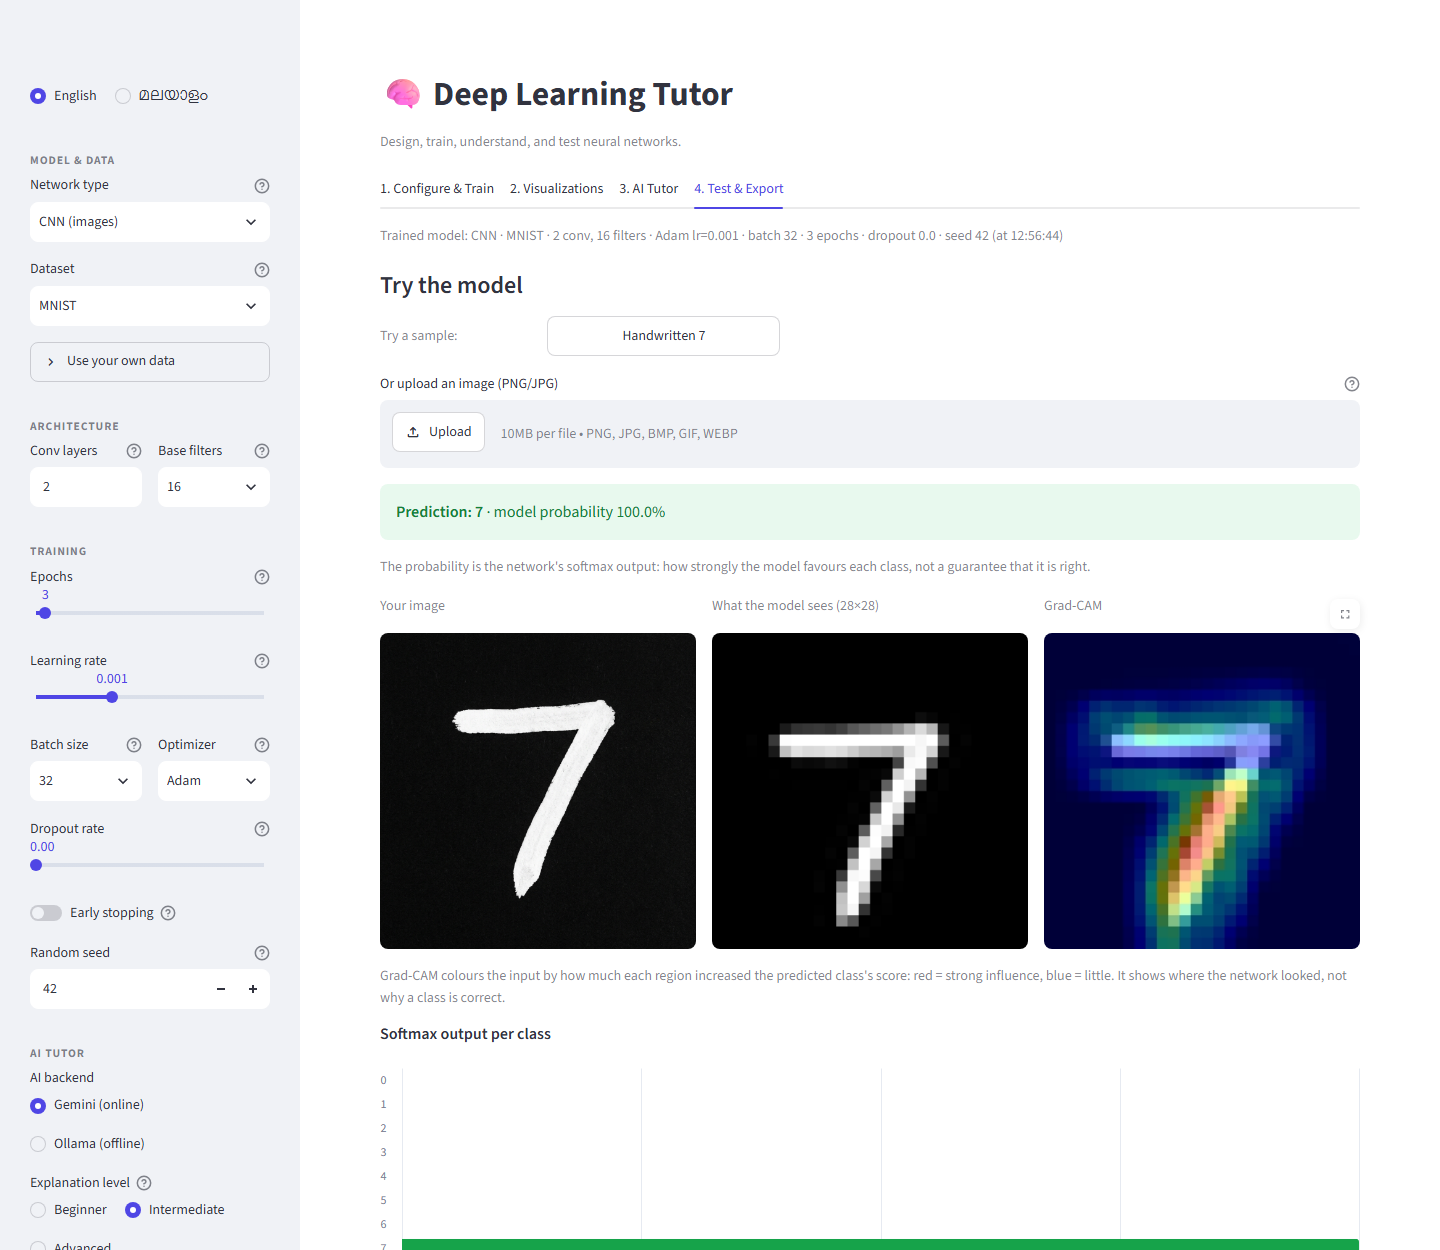
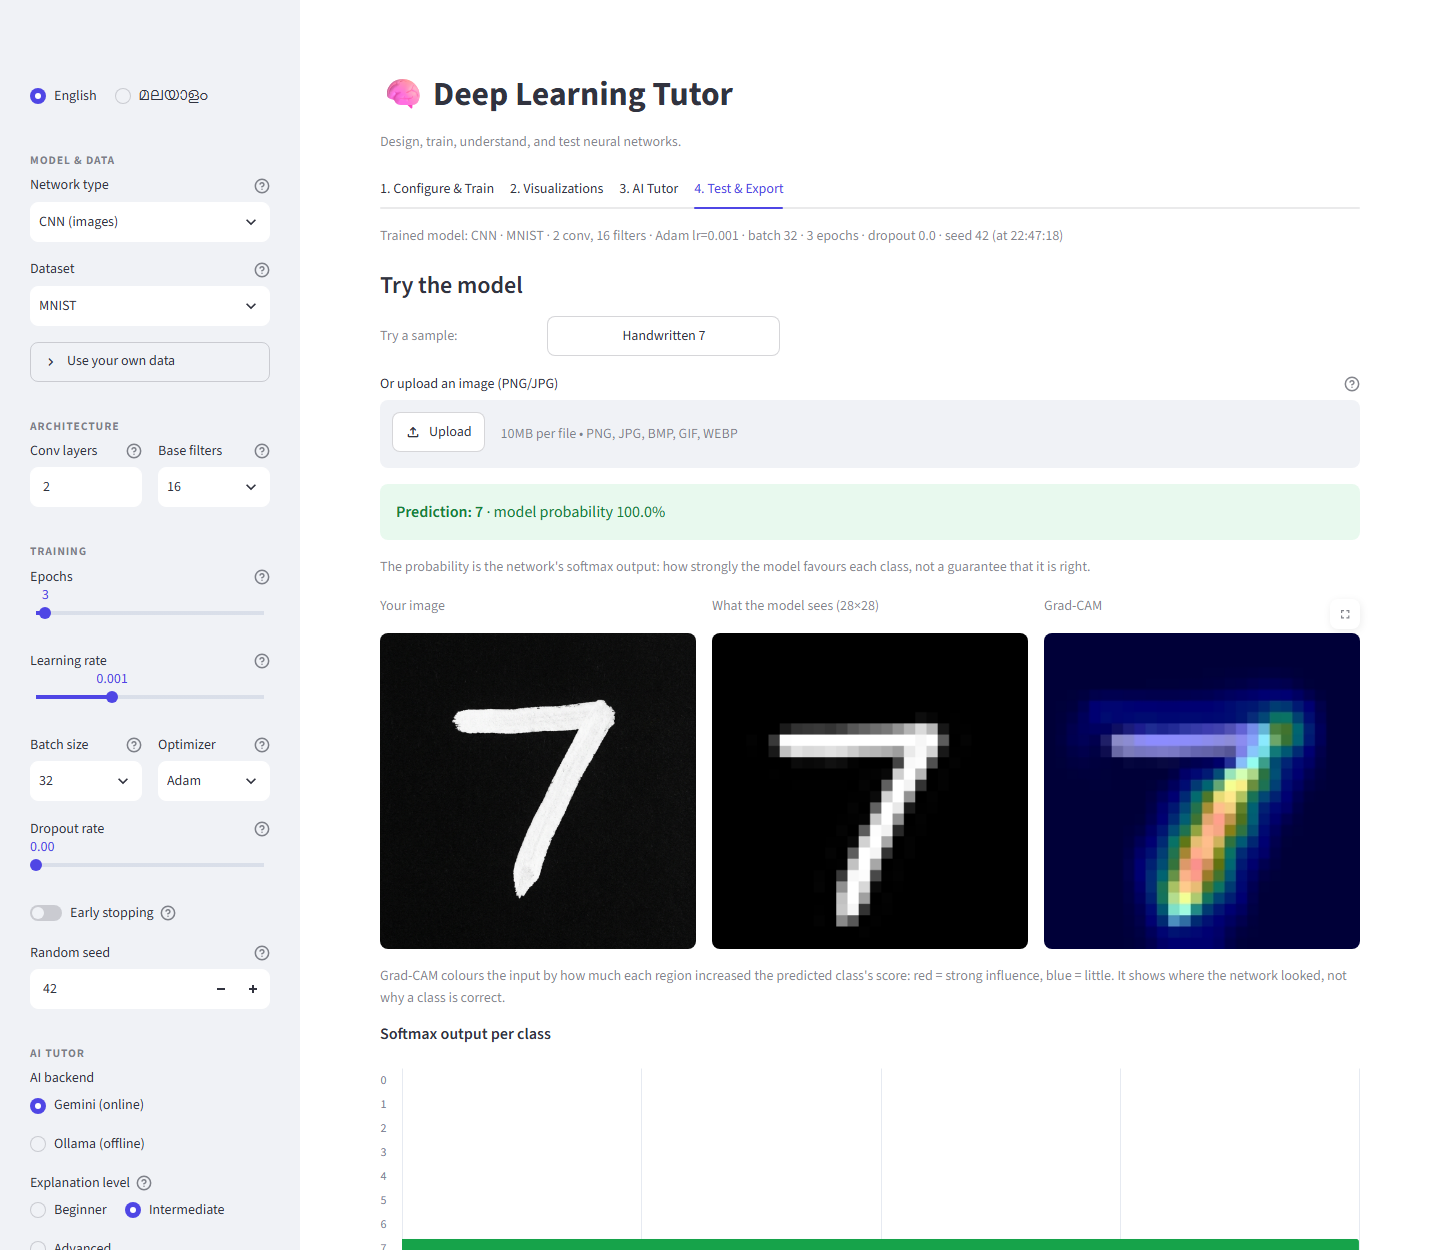
Final proof: second-pass measurements in the docs and README, two screenshots refreshed (item 7.1)

Changed region(s): [[0.7188, 0.5304, 0.9375, 0.78]]

diff --git a/README.md b/README.md
@@ -126,6 +126,9 @@ answer in English only, and agent mode needs Gemini.
   scaler and the one-hot encoder are fitted on the training rows only. When a dataset is too
   small for every class to appear in all three parts, the app falls back to 80 % training /
   20 % validation and says clearly that its number is a validation accuracy.
+- **Faster long epochs.** Image models run 32 batches per TensorFlow call (MNIST, 3 epochs:
+  30.4 s → 24.8 s in an interleaved comparison); tables keep one batch per call so the live
+  chart moves after every batch.
 - **Honest numbers.** Metrics are computed on the weights the model actually ends up with
   (early stopping restores the best epoch). The size of the test set is shown beside the
   accuracy, and small test sets get a note on how much one wrong prediction moves it.
@@ -141,7 +144,9 @@ answer in English only, and agent mode needs Gemini.
 
 ### Ask
 - **AI tutor chat** at three levels (beginner, intermediate, advanced). Code in answers is
-  shown as code blocks. You can attach images, PDFs and text files.
+  shown as code blocks. You can attach images, PDFs and text files. English answers from
+  Gemini are streamed: the first words appear while the rest is still being written (the
+  total time is the same). A question whose reply failed is marked as unanswered.
 - **Agent mode (Gemini function calling).** The tutor can call five tools and shows each
   call live: `run_experiment` (trains real models), `diagnose_training`,
   `compare_experiments`, `generate_code`, `explain_concept`. Every argument is validated.
@@ -149,6 +154,11 @@ answer in English only, and agent mode needs Gemini.
   passages (cosine similarity on embeddings, BM25 keyword search as the fallback).
 - **Document check (optional).** A second LLM call estimates how much of an answer the
   retrieved passages support. Treat it as a signal, not a proof.
+- **API usage panel.** The sidebar shows what this session's Gemini requests have cost:
+  requests, failed attempts, retries, cache hits, tokens and seconds.
+- **Careful with the API.** Identical reviews, fact-checks and embeddings are answered from
+  an in-memory cache; keys rotate on rate limits; retries back off with jitter; every
+  request has a time limit (120 s, 30 s for embeddings).
 
 ### Test & export
 - **Predictions.** Upload an image or try the bundled samples; for tables, fill in feature
@@ -168,14 +178,20 @@ then open **Advanced: remote training (MCP)** in the sidebar.
 
 ## Measured results
 
-Measured on 2026-11-12 with `python benchmarks/verify_models.py` on a laptop CPU
-(Intel Core Ultra 5 125H, no GPU), seed 42, Python 3.13.0, TensorFlow 2.20.0.
+Measured on 2026-11-12, at the end of the second pass, with
+`python benchmarks/verify_models.py` on a laptop CPU (Intel Core Ultra 5 125H, no GPU),
+seed 42, Python 3.13.0, TensorFlow 2.20.0.
 
 | Configuration | Validation accuracy | Test accuracy | Training time |
 |---|---:|---:|---:|
-| Iris, 2 × 16 dense, Adam lr 0.01, batch 16, 50 epochs (the defaults) | 100.0 % (22 rows) | **90.9 %** (22 rows) | 1.6 s |
-| MNIST, CNN 2 conv × 16 filters, Adam lr 0.001, batch 32, 3 epochs | 98.6 % (6,000) | **98.8 %** (10,000) | 39.6 s |
-| Fashion-MNIST, same CNN, 3 epochs | 91.1 % (6,000) | **89.6 %** (10,000) | 35.7 s |
+| Iris, 2 × 16 dense, Adam lr 0.01, batch 16, 50 epochs (the defaults) | 100.0 % (22 rows) | **90.9 %** (22 rows) | 1.5 s |
+| MNIST, CNN 2 conv × 16 filters, Adam lr 0.001, batch 32, 3 epochs | 98.4 % (6,000) | **98.7 %** (10,000) | 12.9 s |
+| Fashion-MNIST, same CNN, 3 epochs | 91.2 % (6,000) | **89.8 %** (10,000) | 13.2 s |
+
+The CNN times are single runs at the start of a fresh process, which is when this laptop is
+fastest; the same training took 22 – 31 s in longer sessions, and 39.6 s and 35.7 s when this
+table was first measured earlier the same day. Read them as "tens of seconds", and see
+[docs/PERFORMANCE.md](docs/PERFORMANCE.md) §7 for the controlled comparison.
 
 How to read this table:
 
@@ -189,15 +205,28 @@ How to read this table:
 Other checks from the same run:
 
 - The bundled `handwritten_seven.png` is predicted as 7; its Grad-CAM heat lies on the
-  stroke 3.1× more than chance.
+  stroke 3.8× more than chance.
 - Grad-CAM on 300 correctly classified MNIST validation digits: the heat lies on the digit's
-  pixels a median 2.3× more than chance; 4 of the 300 maps were empty.
+  pixels a median 2.7× more than chance; none of the 300 maps was empty.
 - `fashion_ankle_boot.png` is predicted as Ankle boot. `fashion_sneaker.png` is a line
-  drawing, unlike the photos the model was trained on, and is predicted as **Bag**.
+  drawing, unlike the photos the model was trained on; in this run it is predicted as
+  Sneaker with 63 % confidence (the run earlier the same day, before the batches were
+  grouped differently, said **Bag**), so that prediction is not stable.
 
-Speed of the user interface (for example 184 ms to react to a sidebar switch with a trained
-model) was measured earlier, on 2026-09-30 and 2026-10-01, and is documented in
-[docs/PERFORMANCE.md](docs/PERFORMANCE.md). Those numbers were not re-measured for this release.
+Second pass, same day (details and method in [docs/PERFORMANCE.md](docs/PERFORMANCE.md) §7):
+
+| What | Before | After |
+|---|---:|---:|
+| Memory for the vectors of 500 knowledge-base passages | 62.4 MB | 1.8 MB |
+| MNIST, 3 epochs, interleaved comparison in one process | 30.4 s | 24.8 s |
+| Wait before the first words of a tutor answer (3 real calls) | 5.6 – 13.2 s | 2.0 – 6.7 s (total time unchanged) |
+| First document upload (text splitting) | 534 ms | 141 ms |
+| Packages installed by `pip install -r requirements.txt` | 109 | 94 |
+
+Speed of the user interface in a real browser (for example 184 ms to react to a sidebar
+switch with a trained model) was measured earlier, on 2026-09-30 and 2026-10-01, and is
+documented in [docs/PERFORMANCE.md](docs/PERFORMANCE.md) §1. Those browser numbers were not
+re-measured; the in-process timings were, and did not change (§7).
 
 ---
 
@@ -215,8 +244,8 @@ app.py                     Streamlit UI: sidebar + four lazy tabs (only the open
 │   ├── image_preprocessing.py   one preprocessing for training ZIPs and test uploads
 │   ├── gradcam.py         Grad-CAM that works under Keras 3
 │   ├── codegen.py         "equivalent Python code" generator
-│   └── rag.py             PDF/TXT extraction, chunking, cosine + BM25 retrieval
-├── backend/               Gemini (key rotation, retry, cache), agent loop, Ollama
+│   └── rag.py             PDF/TXT extraction, our own text splitter, cosine + BM25 retrieval
+├── backend/               Gemini (key rotation, retry, cache, time limit, streaming), usage meter, agent loop, Ollama
 ├── components/            live training callback, Altair charts, chat parsing and rendering
 ├── config/                translations (English + Malayalam), prompts, session-state defaults
 ├── agent_tools.py         the five tools the Gemini agent can call
@@ -224,6 +253,7 @@ app.py                     Streamlit UI: sidebar + four lazy tabs (only the open
 ├── mcp_server.py / mcp_client.py   optional remote training
 ├── benchmarks/            accuracy and speed scripts
 ├── scripts/demo_walk.py   browser walk through the app, makes the screenshots
+├── memory/roadmap.md      engineering log of the second pass: every item, commit and measurement
 └── tests/                 pytest suite
 ```
 
@@ -236,7 +266,7 @@ preprocessing, the seeding and the evaluation are the same code everywhere.
 
 ```bash
 python -m pip install -r requirements-dev.txt
-python -m pytest                 # 450 tests, 2–4 minutes on a laptop CPU
+python -m pytest                 # 478 tests, 2–4 minutes on a laptop CPU
 python -m pytest -m "not slow"   # quick subset (no model training)
 python -m pyflakes .
 ```
@@ -248,9 +278,10 @@ python -m pyflakes .
   the encoder are fitted on training rows only; the test split is evaluated exactly once
   and only after training; the per-class numbers match scikit-learn.
 - **Also covered:** malicious ZIPs, CSV analysis, reproducibility, Grad-CAM, image
-  preprocessing, chat parsing, LLM retry and key rotation, RAG, the agent loop and tools,
-  the remote-training server, the exported code, translations, and end-to-end runs of
-  every tab.
+  preprocessing, chat parsing, LLM retry, key rotation, time limits and streaming, the usage
+  meter, RAG and the text splitter, the agent loop and tools, the remote-training server,
+  the exported code (its rows are compared with the app's), translations, and end-to-end
+  runs of every tab.
 
 Reproduce the measurements:
 
@@ -271,9 +302,22 @@ python benchmarks/run_benchmarks.py --out results.json   # start-up, rerun and c
 - **Small test sets are noisy.** Iris has 22 test rows; one flower is 4.5 points. There is
   one split per seed and no cross-validation.
 - **Deliberately small models.** They train in seconds on a CPU; they are for teaching, not
-  for state-of-the-art accuracy. A CNN epoch on MNIST took about 13 s on the test laptop.
-- **Out-of-distribution images are guessed badly.** The bundled sneaker drawing is
-  predicted as a bag.
+  for state-of-the-art accuracy. A CNN epoch on MNIST took between 4 and 13 s on the test
+  laptop, depending on how warm it was.
+- **Out-of-distribution images are guessed badly.** The bundled sneaker drawing was
+  predicted as a bag in one run and as a sneaker (63 %) in the next.
+- **Small-sample checks.** The 768-number embeddings were compared with the full ones on one
+  short document (15 passages, 20 questions). The request time limit was tested with fakes,
+  not against a real hung connection.
+- **Known small defects, reproduced but not fixed** (listed in
+  [memory/roadmap.md](memory/roadmap.md), section F): a ZIP that stores the same file name
+  several times loads that image several times; a document cut off by the knowledge-base
+  size limit is remembered as already learned; two error-handling corner cases in the
+  Gemini layer.
+- **Streaming is for English Gemini answers only.** Agent mode, Malayalam answers (one JSON
+  object) and Ollama answers appear when complete.
+- **The exported script** makes the same split as the app but trains with plain
+  `model.fit`, so its weights are not bit-identical to the app's.
 - **The document check is an estimate.** An LLM judging another LLM can be wrong.
 - **gTTS needs internet access. Ollama models answer in English only.**
 - **One user per server.** Training runs inside the user's session; there are no accounts.
@@ -301,7 +345,11 @@ help of an AI coding assistant: the audit found, among other things, a data leak
 was fitted before the split) and a Grad-CAM that did not work under Keras 3; the refactor
 moved the logic out of the user interface into tested modules. In the private working
 repository that work is dated 2026-09-30 and 2026-10-01. The held-out test set and the
-per-class table were added for this release.
+per-class table were added for this release. A second pass on 2026-11-12 carried the test
+set through the exported script, the AI review, the tutor, the agent and the remote-training
+log, added the API usage meter, request time limits and streaming, fixed three bugs found
+by a time-boxed bug hunt, and made the measured optimisations listed above. Its engineering
+log is [memory/roadmap.md](memory/roadmap.md).
 
 The public history starts at this release, because the earlier working repository also
 held unrelated report material that cannot be published.

diff --git a/memory/roadmap.md b/memory/roadmap.md
@@ -119,9 +119,9 @@ test or a probe script showed the behaviour; only three are fixed, as the item a
 | 5.1 | SHOULD | M | CNN speed: explain the gap, try cheap levers | CI VERIFIED | 9e7fdb8 | green |
 | 3.4 | OPTIONAL | M | Prompt structure: system_instruction, stable-first order | REVERTED | 1659a77 | green |
 | 3.5 | OPTIONAL | M | Streaming for the plain English tutor answer | CI VERIFIED | 191899a | green |
-| 6.1 | OPTIONAL | S | Dependency check (langchain-text-splitters) | DONE | 6e7a73c | running when checked |
-| 6.2 | OPTIONAL | S | Cleanup audit of unreferenced files and dead functions | DONE | see git log | pending |
-| 7.1 | MUST | M | Final proof: tests, benchmarks, docs, README, clone check | NOT STARTED | | |
+| 6.1 | OPTIONAL | S | Dependency check (langchain-text-splitters) | CI VERIFIED | 6e7a73c | green |
+| 6.2 | OPTIONAL | S | Cleanup audit of unreferenced files and dead functions | CI VERIFIED | d7ce525 | green |
+| 7.1 | MUST | M | Final proof: tests, benchmarks, docs, README, clone check | DONE | see git log | pending |
 | 7.2 | MUST | S | Private guide and run summary (outside the repo) | NOT STARTED | | |
 
 Item details (short form of the brief; the acceptance rules are binding):
@@ -355,6 +355,42 @@ Item details (short form of the brief; the acceptance rules are binding):
   (benchmark group "startup": server healthy after 1.35 s, first page after 5.37 s).
   Outside the repo: the run folder was 547 MB (pip cache 524 MB, old clone check 7 MB, temp
   10 MB); those three were deleted, leaving 7 MB of logs, scripts and result files.
+- 7.1 (final proof), 2026-11-12, mains power.
+  run_benchmarks.py at the start of the pass (8025149) against the end (d7ce525 + docs):
+
+  | What | Start | End |
+  |------|-------|-----|
+  | Cold first run | 5,347 ms | 5,264 ms |
+  | of which import tensorflow | 4,361 ms | 4,176 ms |
+  | No-op rerun, nothing trained | 23.8 ms | 26.7 ms |
+  | No-op rerun, Iris model trained | 29.8 ms | 28.7 ms |
+  | Train click on Iris, 50 epochs | 3,139 ms | 2,984 ms |
+  | Chat message round trip, fake LLM | 31.3 ms | 32.1 ms |
+  | RAG keyword search, 500 chunks, per query / cached index | 22.0 / 0.27 ms | 21.7 / 0.28 ms |
+  | RAG cosine search, 500 x 3,072, per query / cached index | 38.5 / 0.46 ms | 36.2 / 0.62 ms |
+  | Train click, CNN on 6,000 MNIST images, 1 epoch | 2,159 ms | 2,042 ms |
+  | MCP: Iris 30 epochs round trip | 6,255 ms | 6,261 ms |
+
+  One run each: differences are within run-to-run variation; nothing got measurably slower.
+  (The cosine benchmark builds its own 3,072-number test vectors; it does not show the 768
+  change. The 6,000-image CNN benchmark has 188 batches per epoch, below the 320 needed for
+  steps_per_execution, so it is unaffected by 5.1 as intended.)
+  verify_models.py at the end of the pass: Iris 50 epochs validation 100.0 % / test 90.9 %
+  (22 rows each), 1.5 s. MNIST 3 epochs validation 98.42 % / test 98.71 %, 12.9 s.
+  Fashion-MNIST 3 epochs validation 91.17 % / test 89.84 %, 13.2 s. Handwritten 7 predicted
+  as 7, Grad-CAM heat on the stroke 3.81x chance; 300 MNIST digits: median 2.69x chance, 0
+  empty maps. Ankle boot predicted correctly; the sneaker drawing is now predicted as Sneaker
+  (63 %), where the first-pass run said Bag: an unstable out-of-distribution prediction. All
+  five checks of the script pass.
+  The 12.9 s for MNIST, against 24.8 s in the 5.1 comparison and 39.6 s in the first pass,
+  is the same code on the same laptop: a single training at the start of a fresh process is
+  the fastest case. Recorded as such in the README and docs/PERFORMANCE.md section 7.
+  Browser walk (scripts/demo_walk.py, real Chromium, one real tutor call): no Streamlit error
+  on any screen. Screenshots compared pixel by pixel with the committed ones: result card
+  0.01 %, charts 0.06 %, Malayalam 0.04 % of pixels differ (left as they are); Grad-CAM
+  2.0 % and tutor 2.0 % differ (new model weights, new answer text): those two were refreshed.
+  Fresh clone into the run folder: 478 passed in 102 s at d7ce525 (the last code commit), pyflakes silent.
+  Files: README.md, docs/PERFORMANCE.md, docs/images/gradcam.png, docs/images/tutor.png.
 
 ## I. Ideas evaluated and rejected (no code written)
 
@@ -424,13 +460,14 @@ Item details (short form of the brief; the acceptance rules are binding):
 
 ## K. Real Gemini calls used
 
-10 of 12.
+11 of 12.
 
 - 3.3: 3 embedding calls (study-guide passages at 3,072; 20 questions at 3,072; 20 questions at
   768). All succeeded at the first attempt.
 - 3.4: 4 generate calls (two questions in the old prompt structure, two in the new). All
   succeeded at the first attempt.
 - 3.5: 3 streamed generate calls. All succeeded at the first attempt.
+- 7.1: 1 streamed generate call (the tutor question of the browser walk). Succeeded.
 
 ## L. Known issues
 
@@ -446,8 +483,6 @@ Item details (short form of the brief; the acceptance rules are binding):
 
 ## M. Exact next action
 
-Start item 7.1: write the 6.2 commit hash and its CI result into table G. Full tests and
-pyflakes; re-run benchmarks/run_benchmarks.py (compare with section D) and
-benchmarks/verify_models.py; add "Second pass, November 2026" to docs/PERFORMANCE.md; update
-the README; run scripts/demo_walk.py once (the UI changed: usage panel, streaming, captions)
-and refresh only the screenshots that differ; fresh clone in the run folder and tests there.
+Item 7.2 is outside the repository (the private guide, its HTML and the run summary) and
+leaves no commit here. After it, the pass is finished: write the 7.1 commit hash and its CI
+result into table G in a last roadmap-only commit, and mark 7.2 DONE there.

diff --git a/docs/PERFORMANCE.md b/docs/PERFORMANCE.md
@@ -117,3 +117,64 @@ Before the change, every click paid for Streamlit's module scan and for re-drawi
   - Iris: 96.7 % in 1.6 s;
   - MNIST: 98.7 % in 19 s for 3 epochs;
   - Grad-CAM: a median 2.8× chance on digit pixels.
+
+## 7. Second pass, November 2026
+
+A second engineering pass on 2026-11-12, in small measured steps. The full log, with every
+decision and every number, is [memory/roadmap.md](../memory/roadmap.md). Everything below was
+measured in that pass on the same laptop (Intel Core Ultra 5 125H, CPU only, mains power).
+A change was kept only when it met a rule fixed in advance; what did not is listed too.
+
+### Kept
+
+| Change | Before | After | How it was measured |
+|---|---|---|---|
+| Embeddings stored as shared float32 arrays (500 passages) | 62.4 MB | 6.4 MB | `tracemalloc`, fake client returning Python lists as the SDK does; top-3 passages identical |
+| Embeddings with 768 numbers instead of 3,072 (500 passages) | 6.4 MB | 1.8 MB | same; on 20 fixed questions over the study guide the best passage was the same for 20 of 20, the top-3 in the same order for 16 of 20 (3 real embedding calls) |
+| Search matrix for 500 passages | 6.2 MB | 1.5 MB | same |
+| CNN training, MNIST, 3 epochs: several batches per TensorFlow call | 30.4 s | 24.8 s (18.5 % faster) | 5 interleaved repeats in one process, median; test accuracy 98.84 % → 98.71 % |
+| Wait before the first words of a tutor answer (streaming) | 5.6 – 13.2 s (the whole answer) | 2.0 – 6.7 s | 3 real calls, gemini-2.5-flash. **The total time is unchanged**; streaming only shows the words as they arrive |
+| First document upload: our own text splitter instead of a library | 534 ms | 141 ms | fresh process, median of 5; identical chunks on 1,232 test texts |
+| Packages pulled in by a fresh install | 109 | 94 | dependency closure of `requirements.txt` |
+| A Gemini request that hangs | no limit | 120 s (30 s for embeddings), retried once at most | verified with fakes that raise the timeout error; not measured against a real hung connection |
+| Fact-check when every key is rate-limited | 2 rounds of retries | 1 | test with a fake |
+
+New instrument: the sidebar panel **API usage (this session)** counts requests, failed
+attempts, retries, cache hits and misses, tokens (as reported by Gemini) and seconds.
+
+### Tried and not kept
+
+| Idea | Result | Decision |
+|---|---|---|
+| Fixed tutor instructions as `system_instruction` | 513 / 514 prompt tokens before, 514 / 515 after; 0 cached tokens either way. The prompt is about 500 tokens; implicit caching needs 2,048 | not adopted: one token more, no gain |
+| Larger evaluation batch for the CNN | 29.1 s → 29.9 s (3 repeats) | no gain |
+| Plain `model.fit` on NumPy arrays instead of the `tf.data` pipeline | 29.1 s → 30.3 s (3 repeats) | no gain |
+| `steps_per_execution` on the endless data stream | 16 % faster, but a new test showed that every epoch then trains on a few batches twice | replaced by the variant above, which ends the stream after one pass |
+| Removing matplotlib (used for one colormap) | 6 packages and about 125 ms | below the threshold, kept |
+
+### The slow-CNN question
+
+The first pass measured 39.6 s for 3 MNIST epochs where September had measured 19 s. The
+split is not the cause: with the old sizes (60,000 training images) the same code took
+33.3 s, with the new ones (54,000) 29.1 s, and the final evaluation of all three parts costs
+1.8 s. What moves the number is the state of the laptop. Within one session the same code
+took between 22.5 s and 31.0 s, and the first training of a fresh process is the fastest:
+`benchmarks/verify_models.py`, which trains MNIST once at the start of a process, took
+12.9 s at the end of this pass. So a single timing of CNN training on this laptop is good
+to about a factor of two; comparisons are only meaningful when the variants are interleaved
+in one process, as in the table above.
+
+### Unchanged user-interface timings (before → after this pass, `run_benchmarks.py`)
+
+| What | Start of the pass | End of the pass |
+|---|---|---|
+| Cold first run | 5,347 ms | 5,264 ms |
+| No-op rerun, nothing trained | 23.8 ms | 26.7 ms |
+| No-op rerun, Iris model trained | 29.8 ms | 28.7 ms |
+| Train click on Iris, 50 epochs | 3,139 ms | 2,984 ms |
+| Chat message round trip, instant fake LLM | 31.3 ms | 32.1 ms |
+| RAG keyword search, 500 passages, cached index | 0.27 ms | 0.28 ms |
+| Train click, CNN on a 6,000-image subset, 1 epoch | 2,159 ms | 2,042 ms |
+
+One run each; the differences are within run-to-run variation. Nothing in this table was
+a target of the pass, and nothing got measurably slower.
